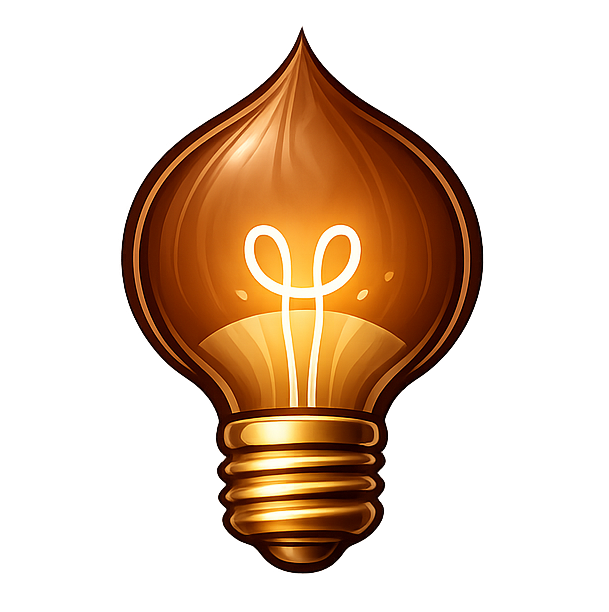
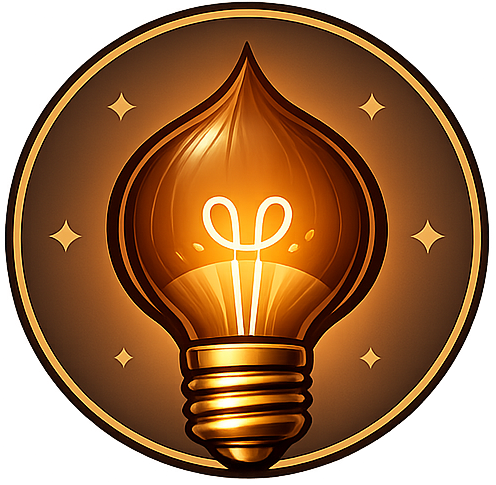
scroll switch

diff --git a/src/main.js b/src/main.js
@@ -24,6 +24,7 @@ const HERO_SLIDES = [
 ];
 
 let isLit = false;
+let scrollAutoLightUsed = false;
 let heroSlideIndex = 0;
 let activeFilter = "all";
 
@@ -148,7 +149,12 @@ function setLit(lit) {
   if (lightSwitch) lightSwitch.checked = lit;
 }
 
+function takeManualLightControl() {
+  scrollAutoLightUsed = true;
+}
+
 function toggleLight() {
+  takeManualLightControl();
   setLit(!isLit);
 }
 
@@ -165,8 +171,9 @@ function handleScroll() {
   const scrollY = window.scrollY;
   const threshold = window.innerHeight * 0.15;
 
-  if (scrollY > threshold) {
+  if (!scrollAutoLightUsed && scrollY > threshold) {
     setLit(true);
+    scrollAutoLightUsed = true;
   }
 
   positionHeroLamp();
@@ -258,7 +265,10 @@ async function init() {
   const lightSwitch = document.getElementById("lightSwitch");
 
   lamp.addEventListener("click", toggleLight);
-  lightSwitch.addEventListener("change", () => setLit(lightSwitch.checked));
+  lightSwitch.addEventListener("change", () => {
+    takeManualLightControl();
+    setLit(lightSwitch.checked);
+  });
 
   document.getElementById("heroPrev").addEventListener("click", () => updateHeroSlide(heroSlideIndex - 1));
   document.getElementById("heroNext").addEventListener("click", () => updateHeroSlide(heroSlideIndex + 1));